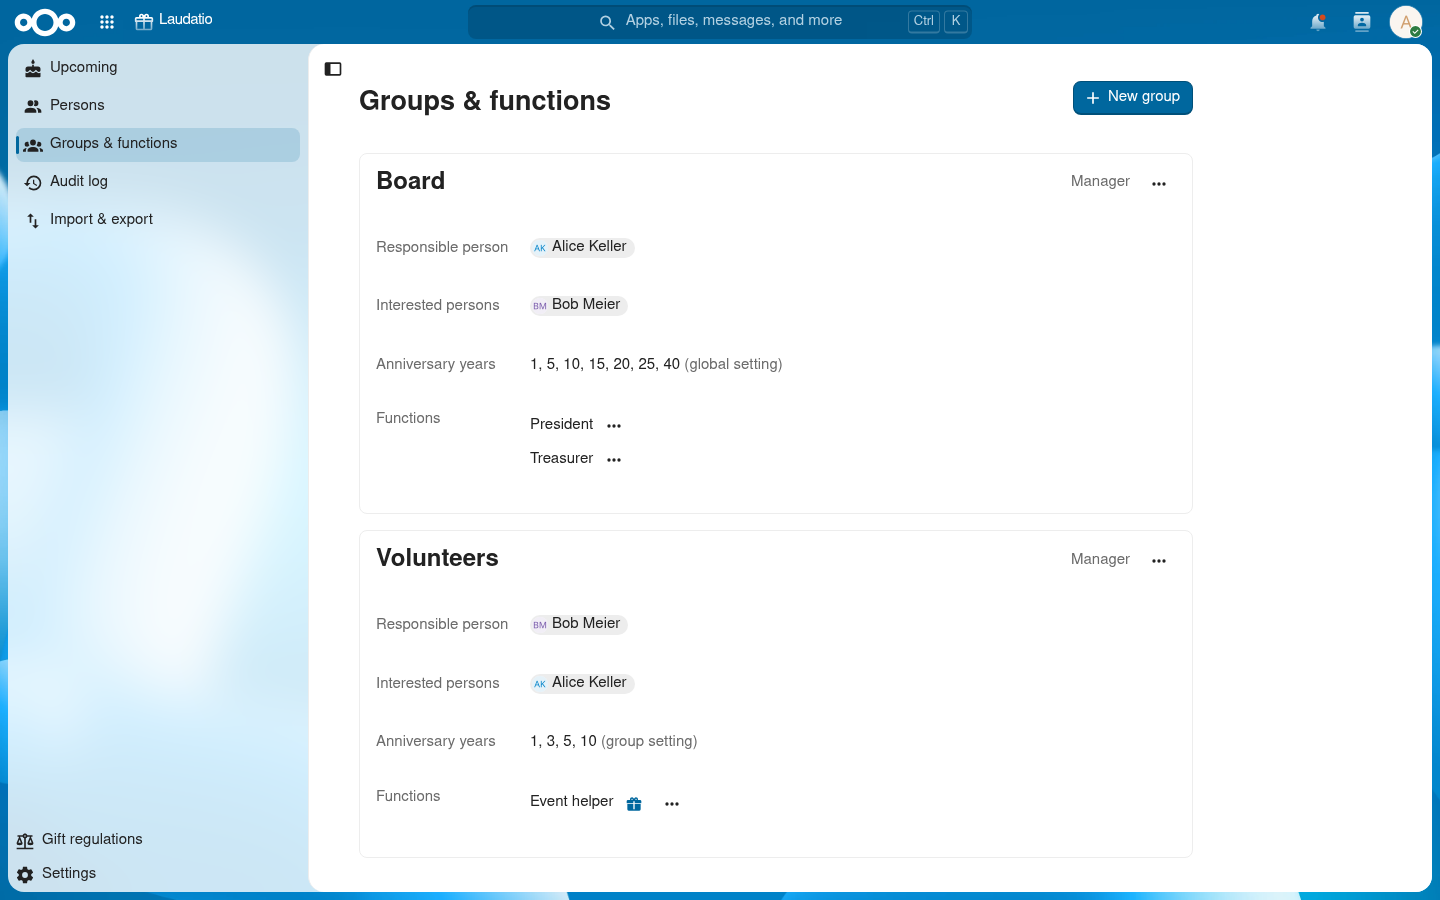
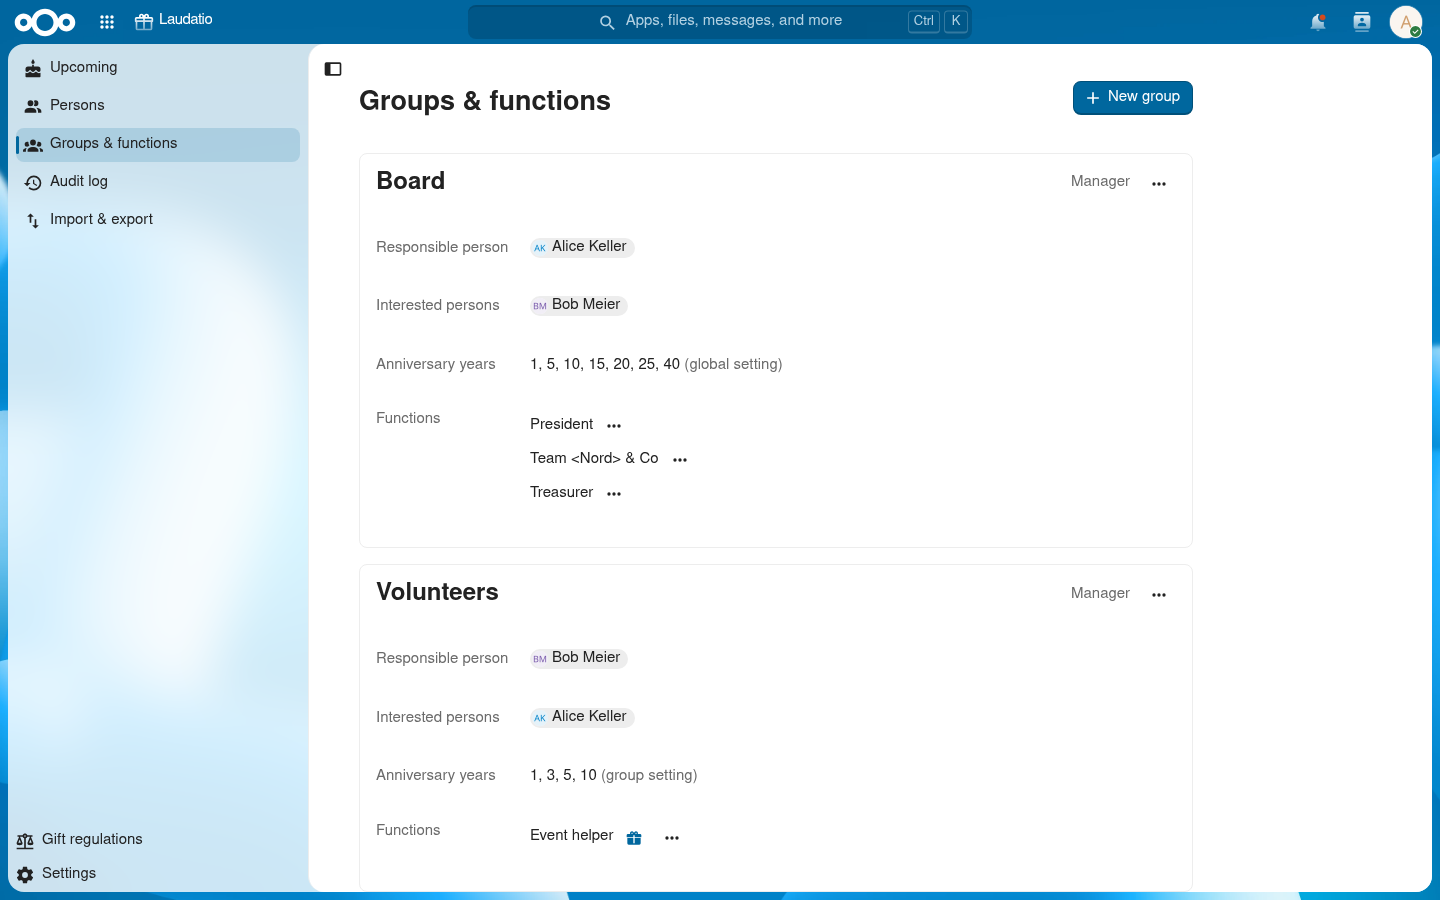
Prepare release 0.5.0

diff --git a/CHANGELOG.md b/CHANGELOG.md
@@ -10,7 +10,7 @@ All notable changes to this project will be documented in this file.
 The format is based on [Keep a Changelog](https://keepachangelog.com/en/1.1.0/),
 and this project adheres to [Semantic Versioning](https://semver.org/spec/v2.0.0.html).
 
-## [Unreleased]
+## 0.5.0 – 2026-11-18
 
 ### Added
 
